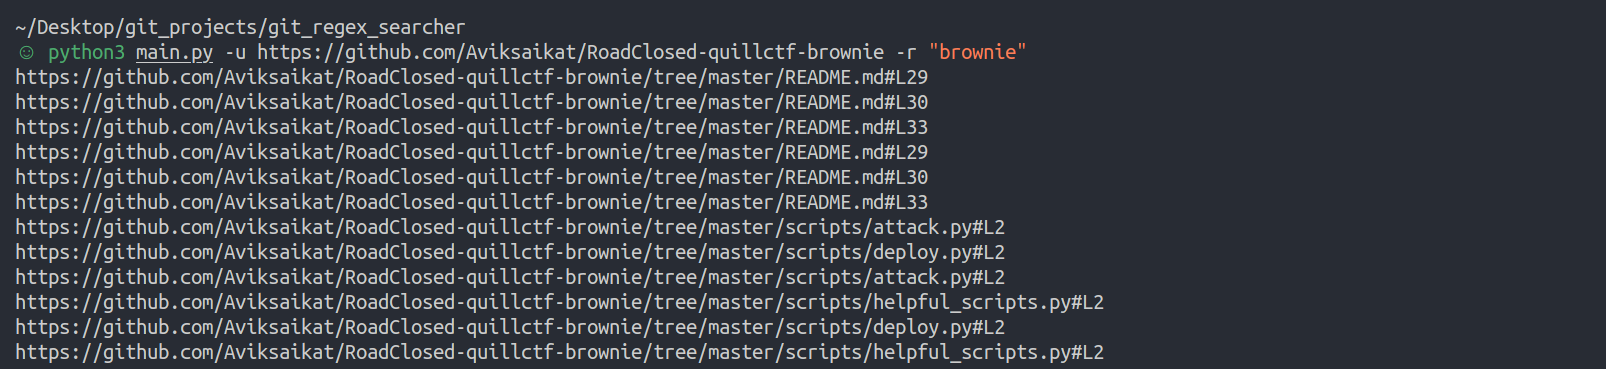
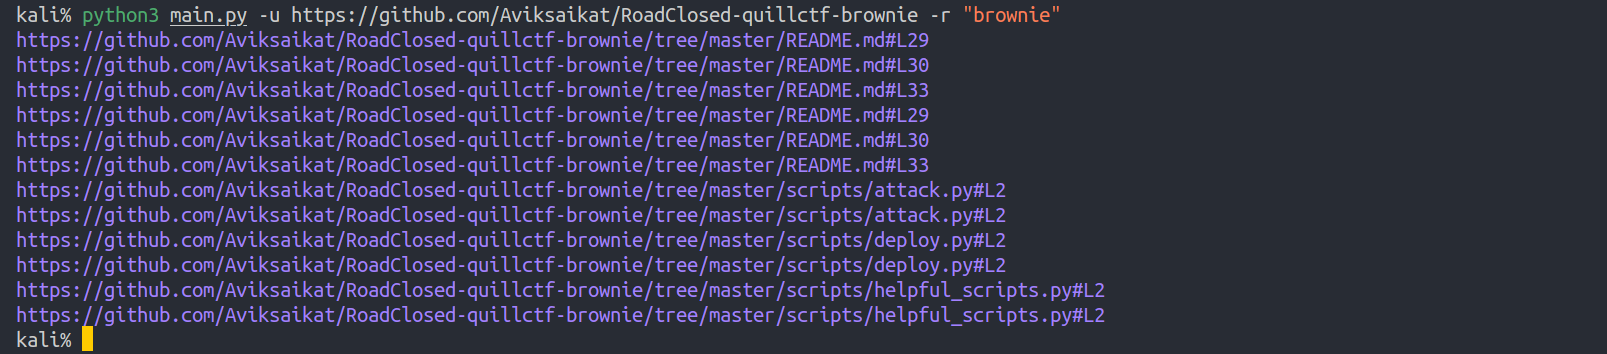
docker file added, new image, coloured output added, requriements.txt added

Changed region(s): [[0.0, 0.0, 0.6849, 0.9944]]

diff --git a/main.py b/main.py
@@ -4,7 +4,7 @@ import os
 import toml
 import re
 from github import Github
-
+from termcolor import colored
 
 # https://pygithub.readthedocs.io/en/latest/examples/Repository.html
 def process_env():
@@ -100,7 +100,7 @@ def main():
                 # results = repo.search_code(pattern)
                 results = search_repo(args.url, pattern)
                 for result in results:
-                    print(f"{args.url}/tree/master/{result[0].path}#L{result[1]}")
+                    print(colored(f"{args.url}/tree/master/{result[0].path}#L{result[1]}", "magenta"))
             except Exception as e:
                 print(f"Error: {e}")
     else:
@@ -109,7 +109,7 @@ def main():
             # results = repo.search_code(pattern)
             results = search_repo(args.repo, pattern)
             for result in results:
-                print(f"{args.repo}/tree/master/{result[0].path}#L{result[1]}")
+                print(colored(f"{args.repo}/tree/master/{result[0].path}#L{result[1]}", "green"))
         except Exception as e:
             print(f"Error: {e}")
 

diff --git a/README.md b/README.md
@@ -56,6 +56,18 @@ The program utilizes multithreading to search through the repository's contents 
 # Regular Expressions
 The program utilizes regular expressions to search for the specified pattern within the files of the repository. This allows for more powerful and flexible searches, as opposed to simple string matching.
 
+
+# Docker
+You can build the image by running the following command in the same directory where the Dockerfile is located:
+```bash
+docker build -t <image-name> .
+```
+
+You can then run the container using the following command:
+```bash
+docker run -e GITHUB_TOKEN=<access_token> <image-name>
+```
+
 # Limitations
 This program only searches the contents of the files and not the name of the files. For my use I don't need it to search the names.
 
